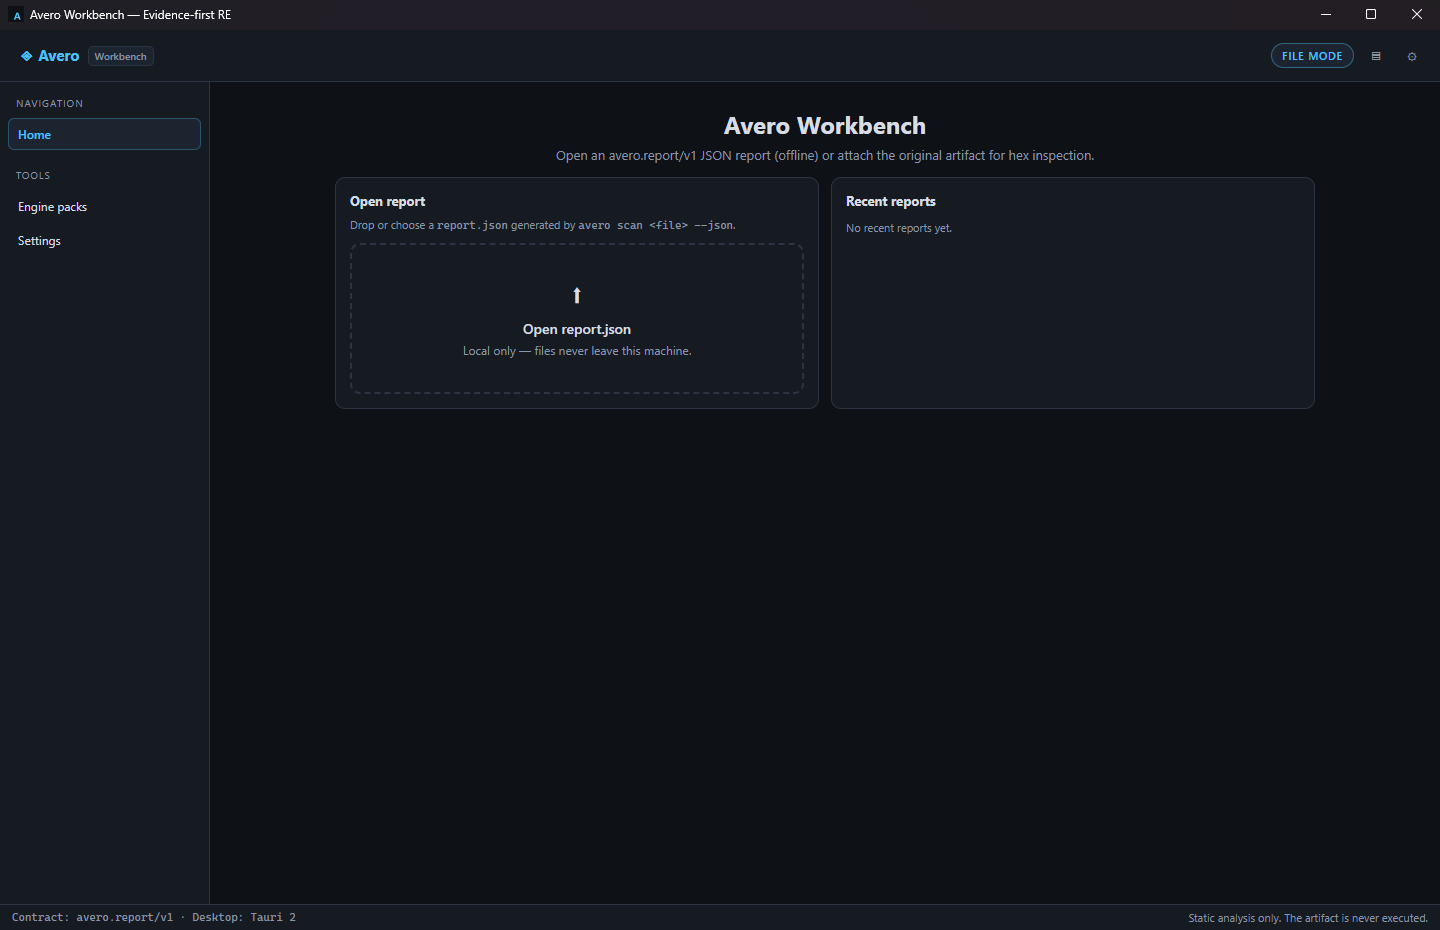
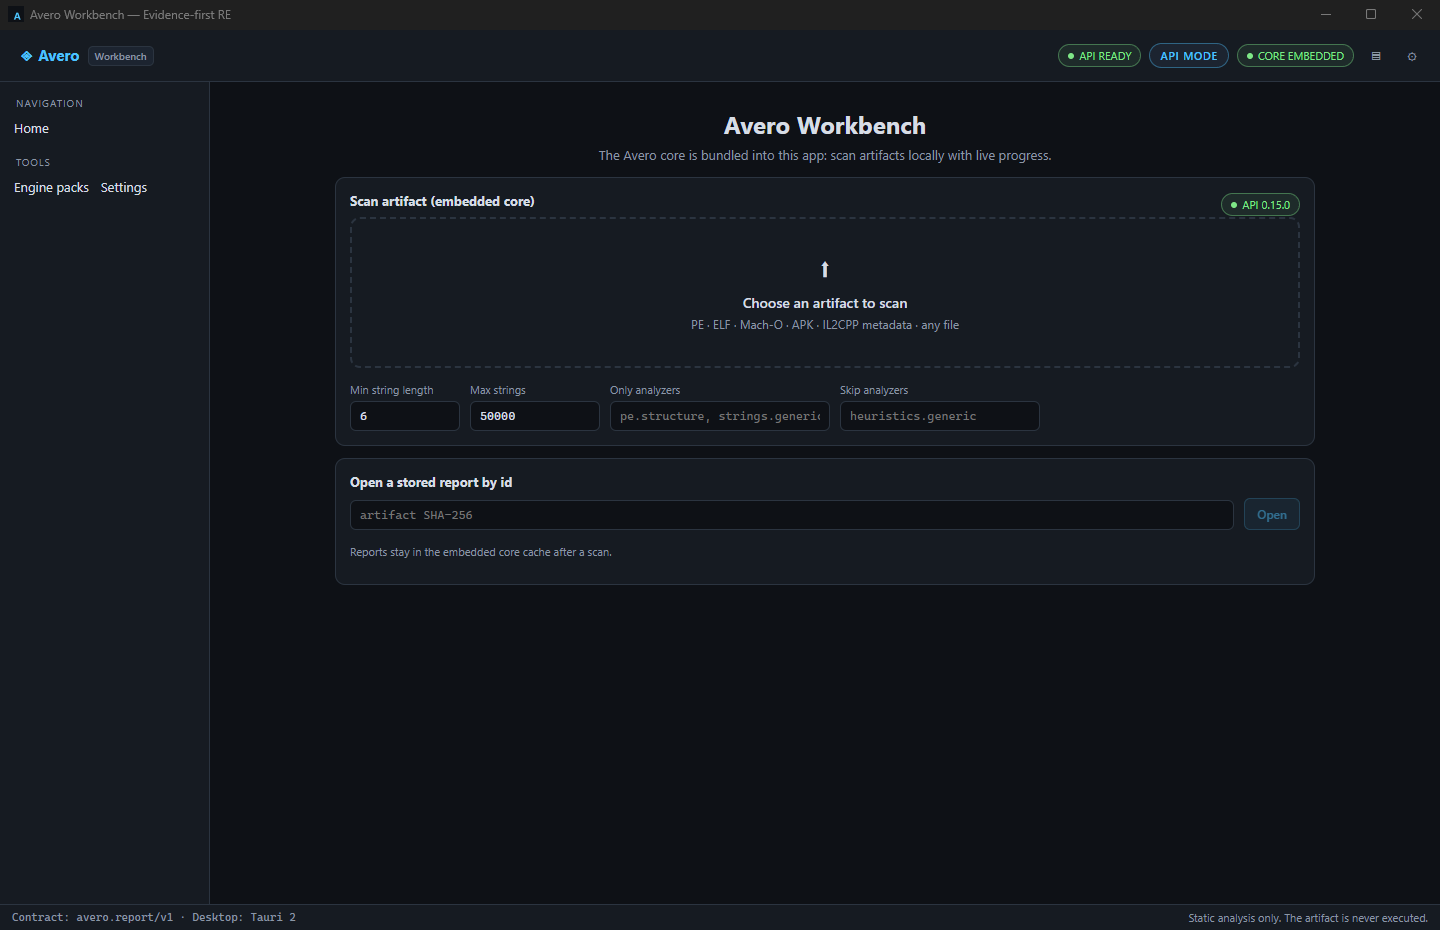
fix(desktop): dark sidebar buttons and silent child processes
- global button appearance/background reset: nav items no longer render as white UA buttons
  in WebView2 (dark theme consistent across the left pane)
- core child processes (curl/tar/dotnet/rizin/cmd) spawn with CREATE_NO_WINDOW so scans,
  engine installs and decompile never flash console windows
- refresh desktop screenshots; docs note the behavior

diff --git a/apps/desktop/src/styles.css b/apps/desktop/src/styles.css
@@ -32,6 +32,8 @@ body {
 
 button, input, select, textarea { font: inherit; color: inherit; }
 
+button { appearance: none; -webkit-appearance: none; background-color: transparent; border: 0; }
+
 a { color: var(--accent); text-decoration: none; }
 
 .app { display: flex; flex-direction: column; height: 100vh; overflow: hidden; }

diff --git a/apps/desktop/README.md b/apps/desktop/README.md
@@ -74,6 +74,9 @@ apps/desktop/
 ```
 
 ## Notes / limits
+- Native `<button>` appearance is reset globally so the dark sidebar stays dark in WebView2
+  (no white UA button backgrounds); child processes use `CREATE_NO_WINDOW` so engine
+  install/decompile/disassembly never flash cmd windows.
 
 - The desktop shell reuses the same API/data contracts as the web UI but is a standalone
   Vite app (no Next.js runtime).
